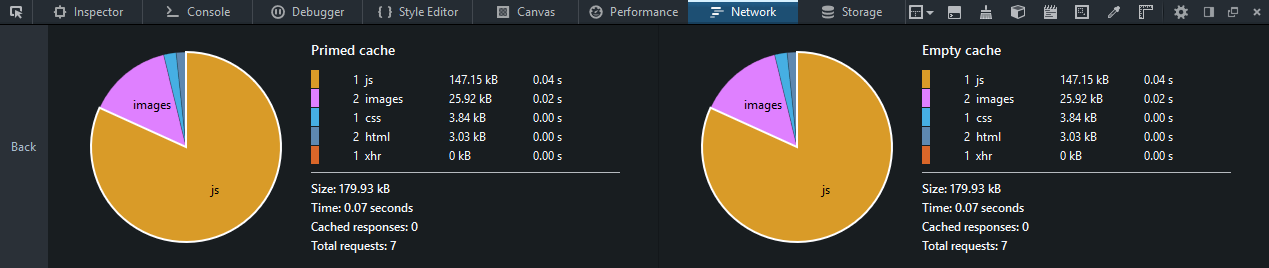
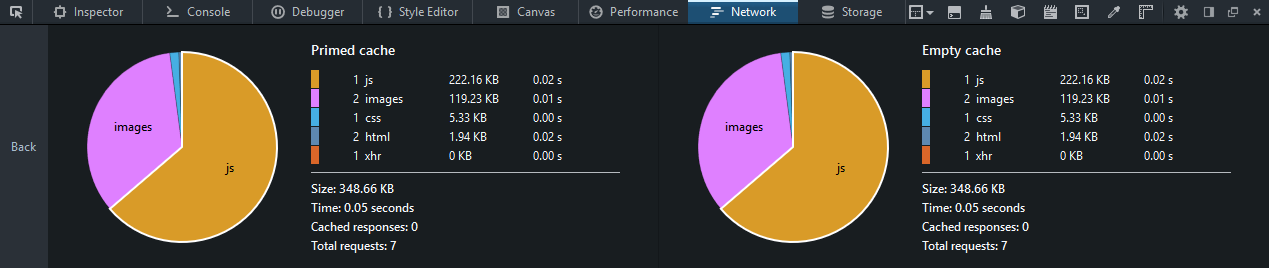
Modifications to angular implementation.

diff --git a/angular1.5/gulpFile.js b/angular1.5/gulpFile.js
@@ -25,7 +25,7 @@ const dest = "dist";
 
 gulp.task("default", ["watch"]);
 gulp.task("lint", ["jsHint", "htmlLint", "lessHint"]);
-gulp.task("build", ["copyJS", "copyTpl", "copyHtml", "less", "copyAssets"]);
+gulp.task("build", ["copyJS", "copyHtml", "less", "copyAssets"]);
 gulp.task("min", ["uglify", "htmlMin", "lessMin", "copyAssets"]);
 
 
@@ -76,12 +76,20 @@ gulp.task("jsHint", function() {
 });
 
 gulp.task("htmlLint", function() {
-	return gulp.src([`${src}/*.htm`, `${src}/angularDirectives/**/*.tpl.htm`])
+	return gulp.src([
+			`${src}/*.htm`,
+			`${src}/angularTpl/*.tpl.htm`,
+			`${src}/angularDirectives/**/*.tpl.htm`
+		])
 		.pipe(htmlLint()); // https://github.com/htmllint/htmllint/wiki/Options
 });
 
 gulp.task("lessHint", function() {
-	return gulp.src([`${src}/style/*.less`, `${src}/angularDirectives/**/*.less`])
+	return gulp.src([
+			`${src}/style/*.less`,
+			`${src}/angularTpl/*.less`,
+			`${src}/angularDirectives/**/*.less`
+		])
 		.pipe(lessHint())
 		.pipe(lessHint.reporter());
 });
@@ -90,40 +98,48 @@ gulp.task("lessHint", function() {
 
 
 
-// Build
+const jsSrc = [
+		"node_modules/angular/angular.js",
+		"node_modules/angular-animate/angular-animate.js",
+		"node_modules/angular-ui-router/release/angular-ui-router.js",
+		`${src}/js/main.js`,
+		`${src}/js/*.js`,
+		`${src}/angularDirectives/**/*.js`,
+		`!${src}/js/*.spec.js`,
+		`!${src}/angularDirectives/**/*.spec.js`
+	];
+		
+const htmlSrc = [
+		`${src}/*angularDirectives/**/*.tpl.htm`,
+		`${src}/*angularTpl/*.tpl.htm`,
+		`${src}/index.htm`
+	];
+		
+const cssSrc = [
+		`${src}/style/*.less`,
+		`${src}/angularTpl/*.less`,
+		`${src}/angularDirectives/**/*.less`
+	];
 
+
+
+
+
+// Build
+		
 gulp.task("copyJS", function() {
-	return gulp.src([
-			"node_modules/angular/angular.js",
-			"node_modules/angular-animate/angular-animate.js",
-			"node_modules/angular-ui-router/release/angular-ui-router.js",
-			`${src}/js/main.js`,
-			`${src}/js/*.js`,
-			`${src}/angularDirectives/**/*.js`,
-			`!${src}/js/*.spec.js`,
-			`!${src}/angularDirectives/**/*.spec.js`])
+	return gulp.src(jsSrc)
 		.pipe(concat("app.js"))
 		.pipe(gulp.dest(`${dest}`));
 });
 
-gulp.task("copyTpl", function() {
-	return gulp.src([
-			`${src}/*angularDirectives/**/*.tpl.htm`,
-			`${src}/*angularTpl/*.tpl.htm`,
-		])
-		.pipe(gulp.dest(`${dest}`));
-});
-
 gulp.task("copyHtml", function() {
-	return gulp.src([`${src}/index.htm`])
+	return gulp.src(htmlSrc)
 		.pipe(gulp.dest(`${dest}`));
 });
 
 gulp.task("less", function () {
-	return gulp.src([
-			`${src}/style/*.less`,
-			`${src}/angularTpl/*.less`,
-			`${src}/angularDirectives/**/*.less`])
+	return gulp.src(cssSrc)
 		.pipe(less())
 		.pipe(concat("style.css"))
 		.pipe(gulp.dest(`${dest}`));
@@ -141,14 +157,14 @@ gulp.task("copyAssets", function() {
 // Minify
 
 gulp.task('uglify', function() {
-	return gulp.src(["node_modules/angular/angular.min.js", `${src}/js/main.js`, `${src}/js/*.js`, `!${src}/js/*.spec.js`, `${src}/angularDirectives/**/*.js`])
+	return gulp.src(jsSrc)
 		.pipe(uglify())
 		.pipe(concat("app.js"))
 		.pipe(gulp.dest(`${dest}`));
 });
 
 gulp.task("htmlMin", function() {
-	return gulp.src([`${src}/index.htm`, `${src}/*angularDirectives/**/*.tpl.htm`])
+	return gulp.src(htmlSrc)
 		.pipe(htmlMin({
 			collapseWhitespace: true,
 			minifyCSS: true,
@@ -160,7 +176,7 @@ gulp.task("htmlMin", function() {
 });
 
 gulp.task("lessMin", function () {
-	return gulp.src([`${src}/style/*.less`, `${src}/angularDirectives/**/*.less`])
+	return gulp.src(cssSrc)
 		.pipe(less())
 		.pipe(concat("style.css"))
 		.pipe(cleanCss())

diff --git a/angular1.5/README.htm b/angular1.5/README.htm
@@ -85,13 +85,13 @@
 				Dependencies
 			</h2>
 			<p class="p">
-				The only JavaScript dependency is core Angular 1.5. No jQuery, no Bootstrap. Internet Explorer 8 and below is not supported. No real need for polyfills like Webshim, or browser compatibility libraries like Modernizr. The Angular dependency is stored on the <code>node_modules</code> folder and concated with the rest of project JavaScript code at building time.
+				JavaScript dependencies are core Angular 1.5, ngAnimate 1.5 and UI-Router 0.3. No jQuery, no Bootstrap. Internet Explorer 8 and below is not supported. No real need for polyfills like Webshim, or browser compatibility libraries like Modernizr. The Angular dependency is stored on the <code>node_modules</code> folder and concated with the rest of project JavaScript code at building time.
 			</p>
 			<p class="p">
 				The only CSS dependency are the fonts downloaded from Google Fonts.
 			</p>
 			<p class="p">
-				Due to the small JavaScript and CSS footprint the page loads fast: 4 KB of CSS and 147 KB of JavaScript (which 99% of this JS is the Angular library). See the below screenshot of Firefox Developer Tools showing the minimised version of the project (built with the <code>gulp min</code> configured task).
+				Due to the small JavaScript and CSS footprint the page loads fast: 5 KB of CSS and 222 KB of JavaScript (which 99% of this JS is the Angular library). See the below screenshot of Firefox Developer Tools showing the <strong>minimised</strong> version of the project (built with the <code>gulp min</code> configured task).
 				
 				<img src="https://antonioredondo.github.io/AntoniosCatsHome/zImg/sizeAngular.png">
 			</p>

diff --git a/angular1.5/dist/angularTpl/howToAdopt.tpl.htm b/angular1.5/dist/angularTpl/howToAdopt.tpl.htm
@@ -1,4 +1,4 @@
-<img class="kitten" src="img/kitten.jpg" />
+<img class="kitten" src="img/kitten.jpg" alt="Kitten" />
 <p class="hta">
 	The best place to start your search and keep up to date on cats that are available for rehoming is on our online cat gallery. All cats that are ready for rehoming will have their own web profile providing details about their character and the sort of home that they are looking for. Once you have found a cat that you think would be a good match for you, make a note of the cat's reference number and give us a call on the number provided on their profile.
 </p>

diff --git a/angular1.5/src/angularTpl/howToAdopt.tpl.htm b/angular1.5/src/angularTpl/howToAdopt.tpl.htm
@@ -1,4 +1,4 @@
-<img class="kitten" src="img/kitten.jpg" />
+<img class="kitten" src="img/kitten.jpg" alt="Kitten" />
 <p class="hta">
 	The best place to start your search and keep up to date on cats that are available for rehoming is on our online cat gallery. All cats that are ready for rehoming will have their own web profile providing details about their character and the sort of home that they are looking for. Once you have found a cat that you think would be a good match for you, make a note of the cat's reference number and give us a call on the number provided on their profile.
 </p>

diff --git a/angular1.5/src/style/main.less b/angular1.5/src/style/main.less
@@ -214,7 +214,7 @@ input:focus { /* Chrome adds its own blue outline on buttons when focus */
 	&.ng-enter {
 		opacity: 0;
 		transform: translate3d(8%, 0, 0);
-		transition: all 0.2s ease-out;
+		transition: all @animTime2 ease-out;
 	}
 	
 	&.ng-enter-active {

diff --git a/angular1.5/dist/index.htm b/angular1.5/dist/index.htm
@@ -7,7 +7,6 @@
 		<meta name="viewport" content="width=device-width" />
 		
 		<link href="style.css" rel="stylesheet" />
-		<script type="text/javascript" src="http://livejs.com/live.js"></script>
 	</head>
 	
 	<body>

diff --git a/angular1.5/src/index.htm b/angular1.5/src/index.htm
@@ -7,7 +7,6 @@
 		<meta name="viewport" content="width=device-width" />
 		
 		<link href="style.css" rel="stylesheet" />
-		<script type="text/javascript" src="http://livejs.com/live.js"></script>
 	</head>
 	
 	<body>

diff --git a/angular1.5/src/angularDirectives/cardList/container.less b/angular1.5/src/angularDirectives/cardList/container.less
@@ -11,7 +11,6 @@
 	background: white;
 	border-radius: 5px;
 	border: 4px solid @grayB;
-	// box-shadow: 0 0 20px rgba(255, 255, 255, 0), 0 0 10px rgba(0, 0, 0, 0.2) inset;
 	
 	color: @gray3;
 	font-size: 1.8em;
